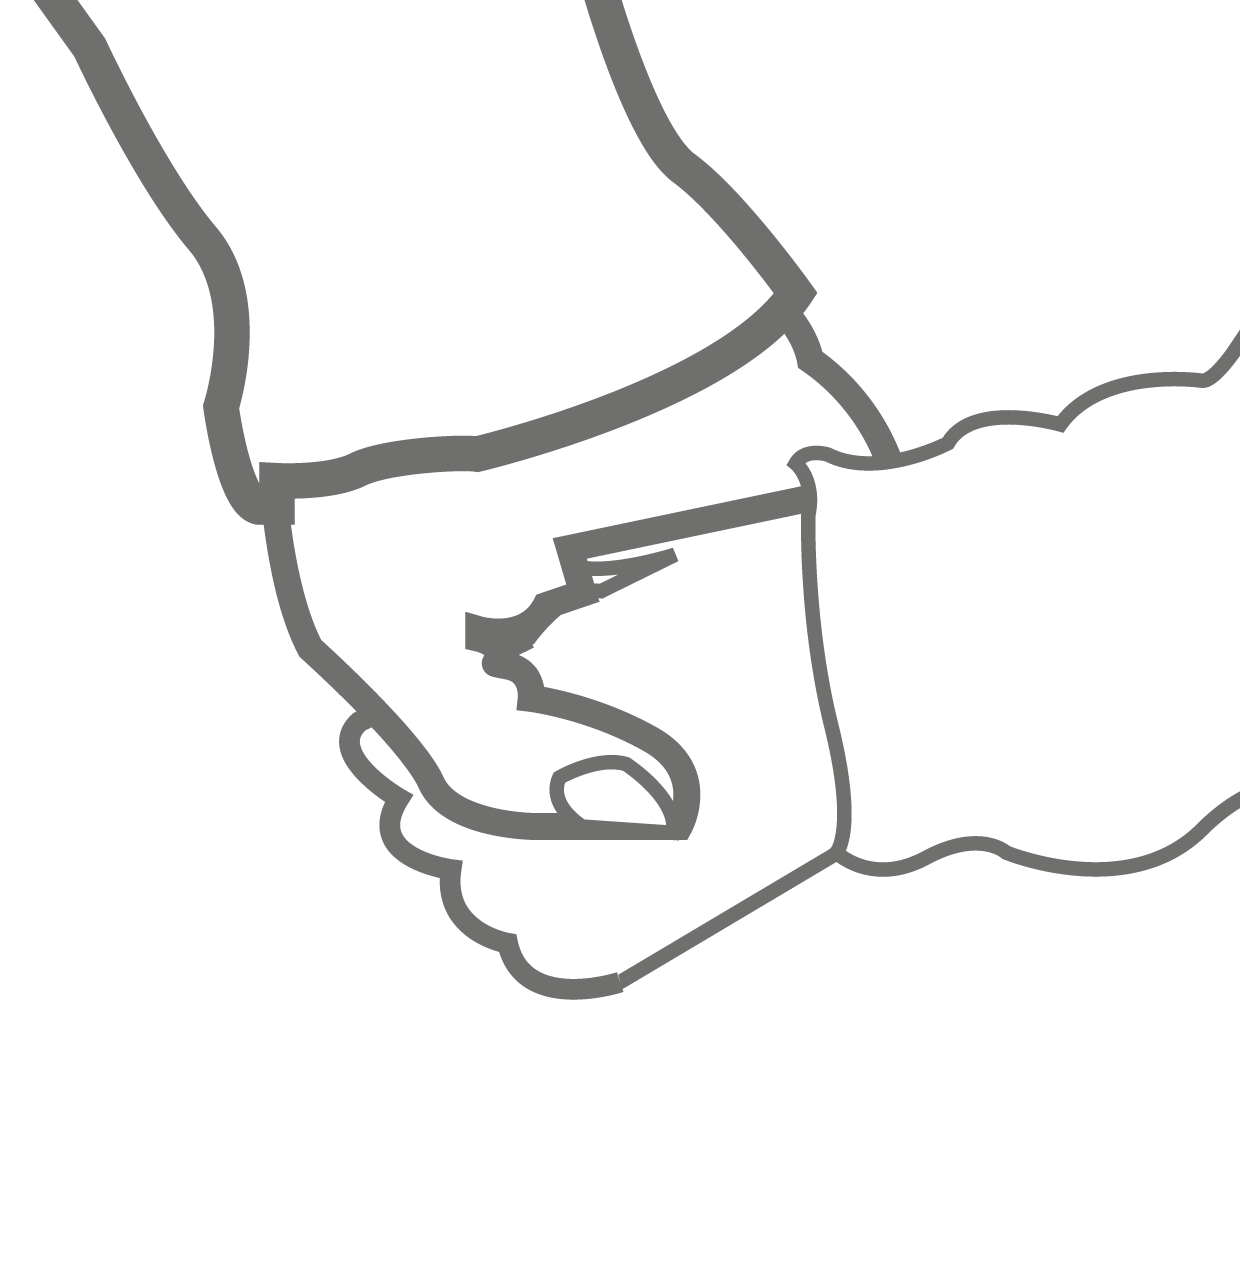
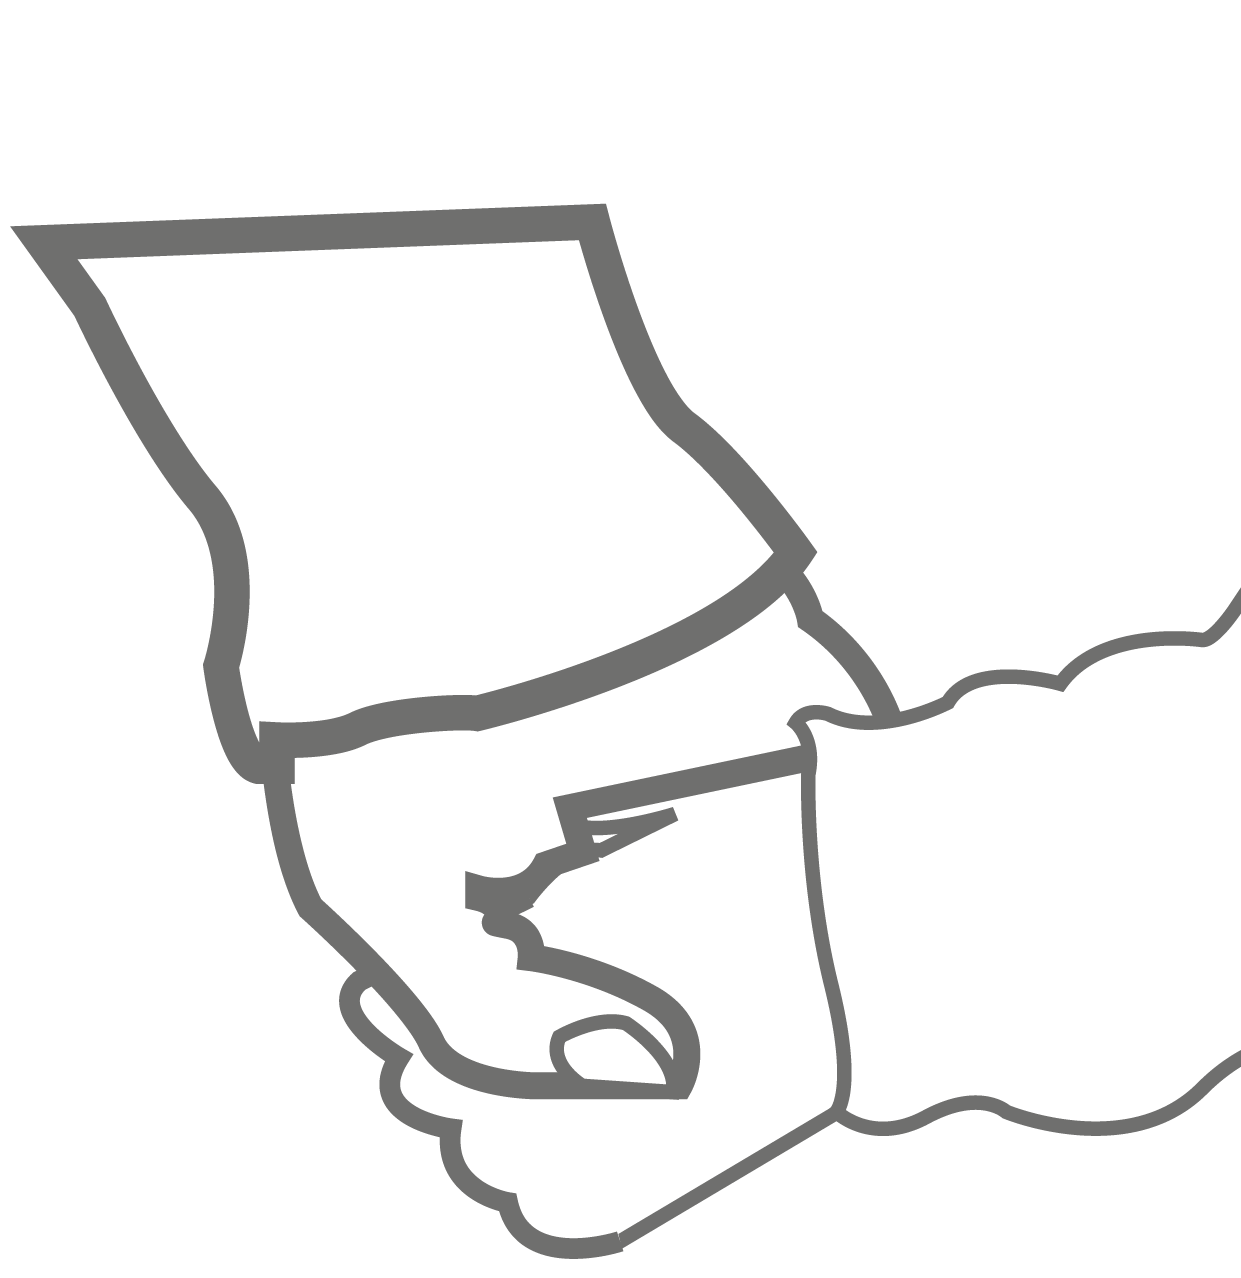
icono 7

diff --git a/index.html b/index.html
@@ -87,7 +87,7 @@
         </article>
         <article id="a-ultima-hora" class="columnas2">
           <figure><img src="img/iconos2-03.png" alt="" /></figure>
-          <p class="formulario padding-left-aumentar">- Si a última hora quieres hacer un cambio, en vez de una bicicleta quieres un puzzle, o decirnos algo, y ya no hay tiempo para enviarnos una carta, dile qué es lo que quieres a tu amama o a tu aitite para que nos lo digan. Tú no lo sabes y no te lo van a decir, pero las amamas y los aitites tienen poderes mágicos y pueden hablar con el Olentzero, <strong>si creen que es necesario</strong>.</p>
+          <p class="formulario padding-left-aumentar">- Si a última hora quieres hacer un cambio, en vez de una bicicleta quieres un puzzle, o decirnos algo, y ya no hay tiempo para enviarnos una carta, <strong>dile qué es lo que quieres a tu amama o a tu aitite</strong> para que nos lo digan. Tú no lo sabes y no te lo van a decir, pero las amamas y los aitites tienen poderes mágicos y pueden hablar con el Olentzero, <strong>si creen que es necesario</strong>.</p>
         </article>
         <article id="mucho" class="columnas2">
           <figure><img src="img/iconos2-04.png" alt="" /></figure>
@@ -98,7 +98,7 @@
           <p class="formulario padding-left-aumentar">- Yo te llevaré regalos, pero creéme a mí, una amama o un aitite es el mejor regalo que puedes tener. No hay otro mejor.</p>
         </article>
         <article id="a-ultima-hora" class="columnas2">
-          <figure><img src="img/iconos2-02.png" alt="" /></figure>
+          <figure><img src="img/iconos2-07.png" alt="" /></figure>
           <p class="formulario padding-left-aumentar">- Si no tuvieras aitite ni amama, solo en ese caso, los amatxus y los aitas pueden hablar con el Olentzero. Si no es así, no pueden.</p>
         </article>
         <article id="a-ultima-hora" class="columnas2">
